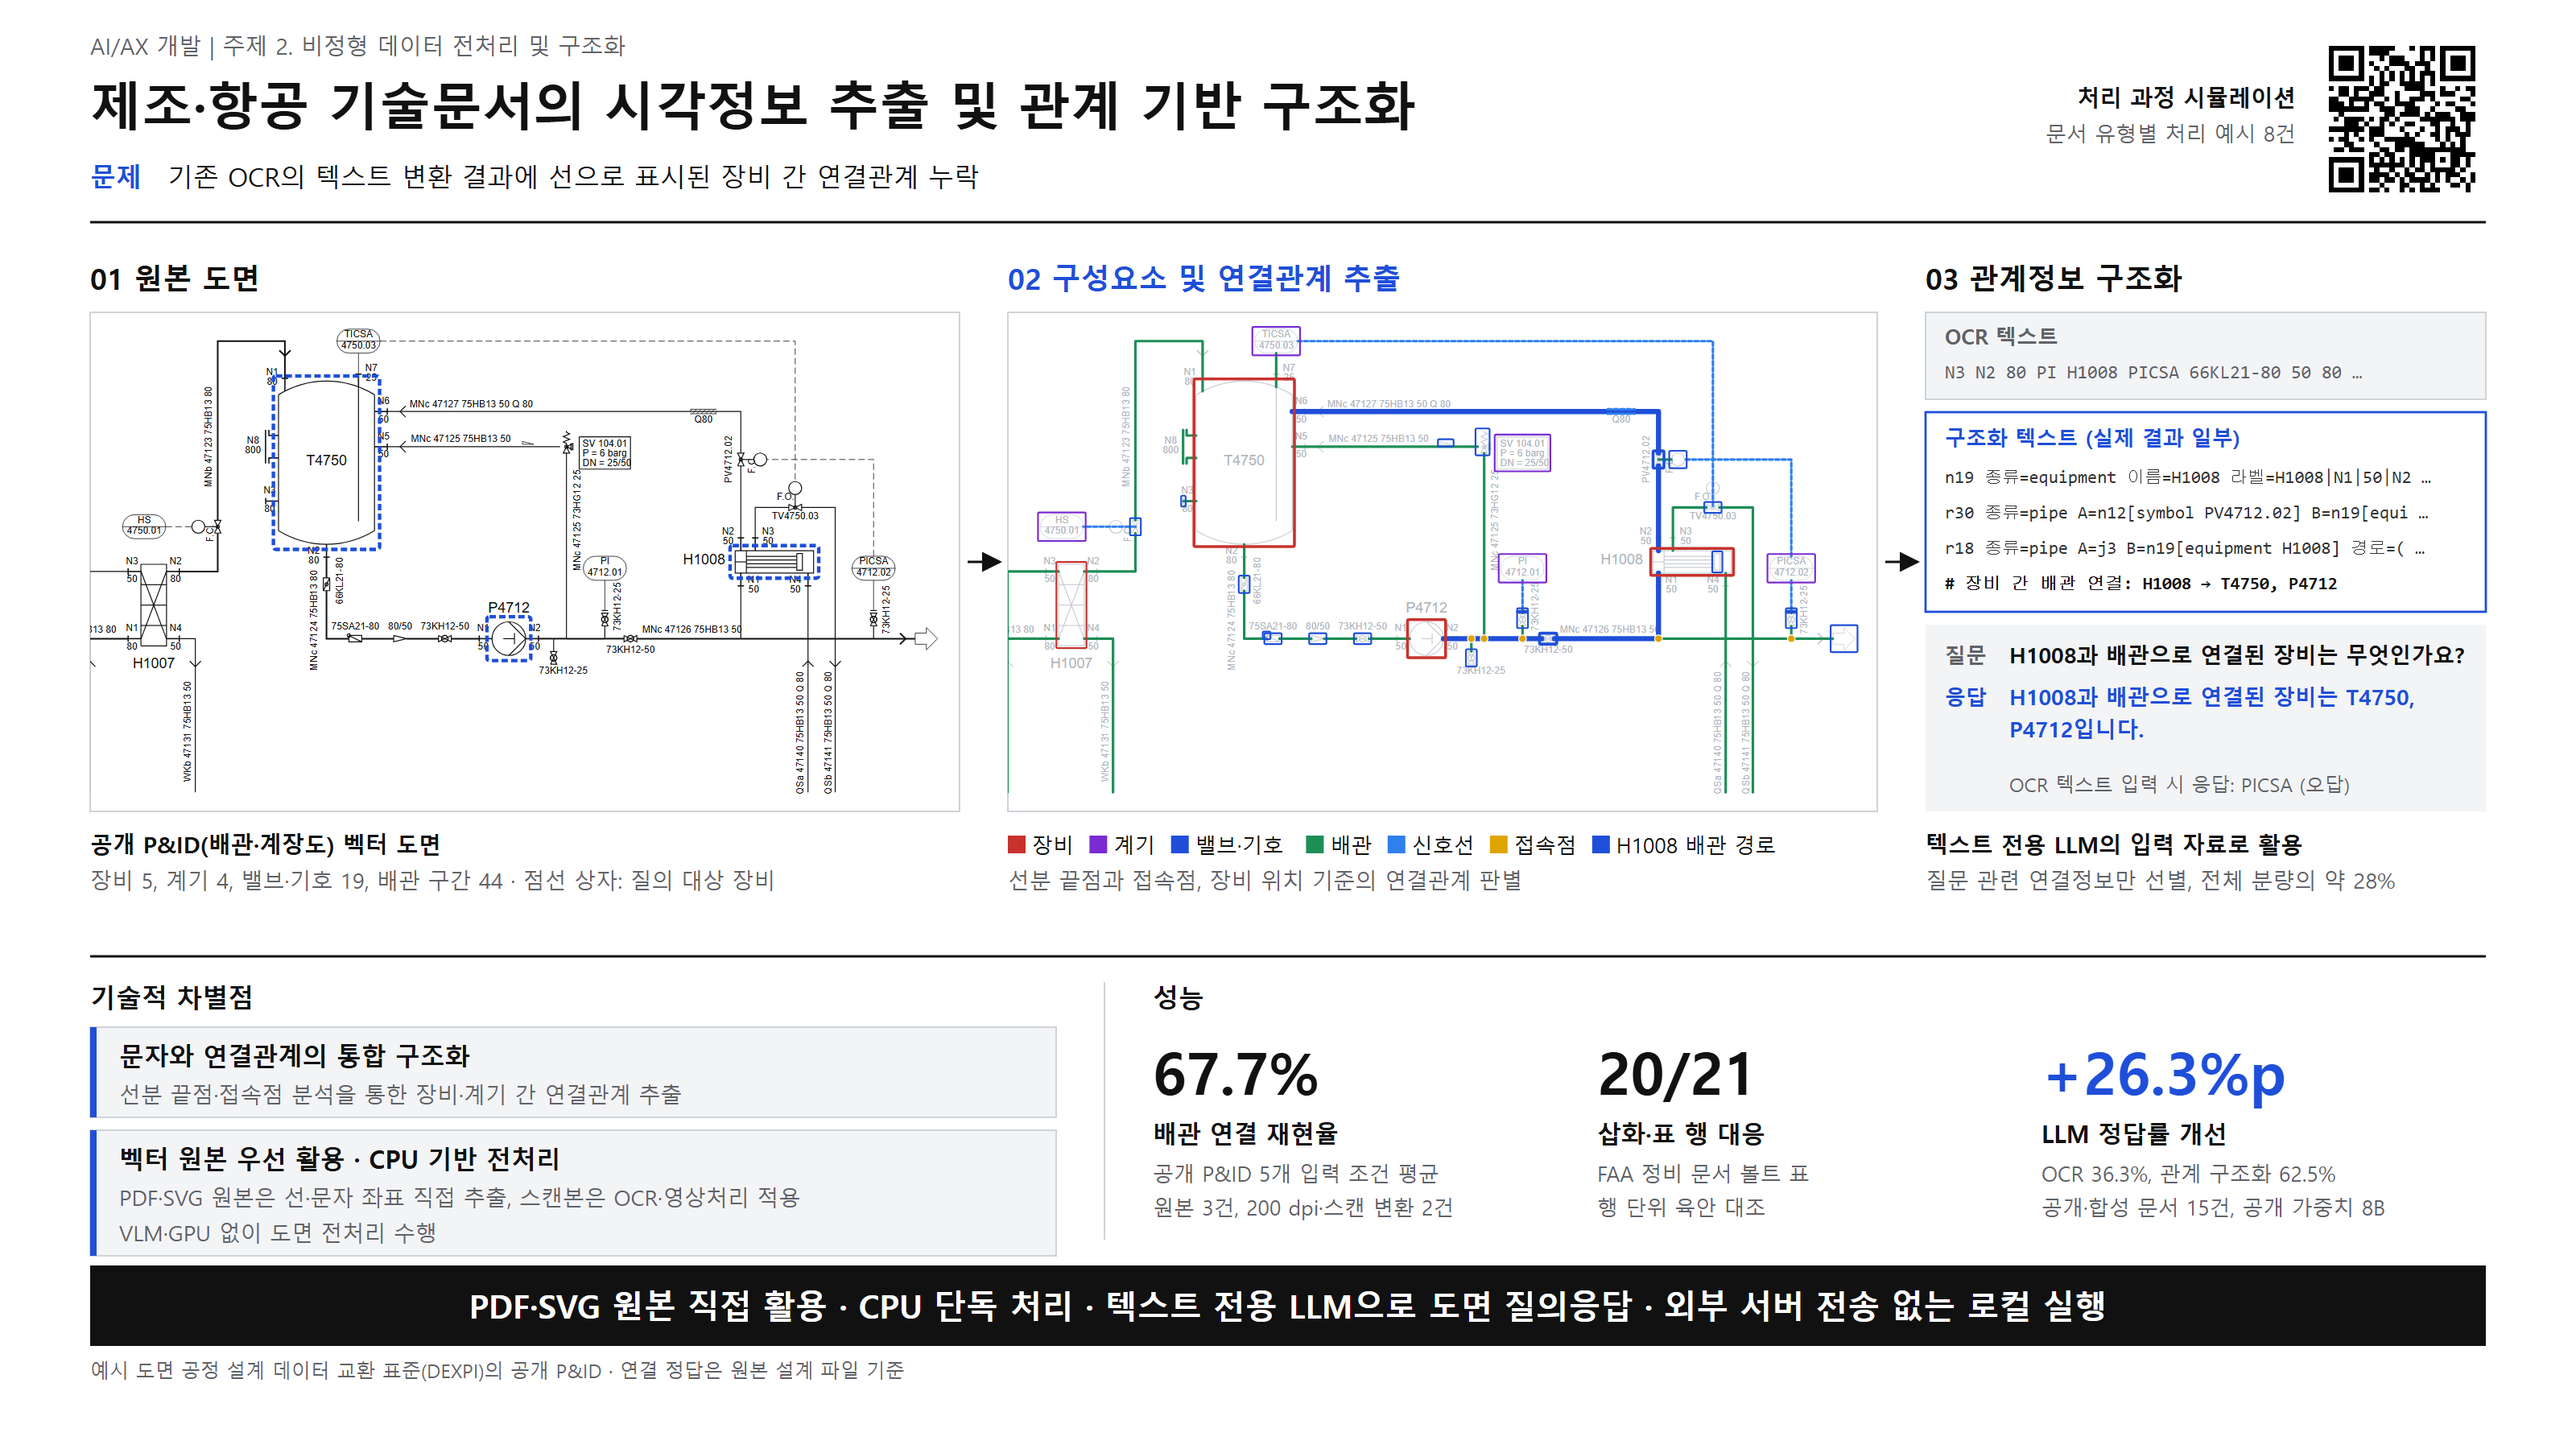
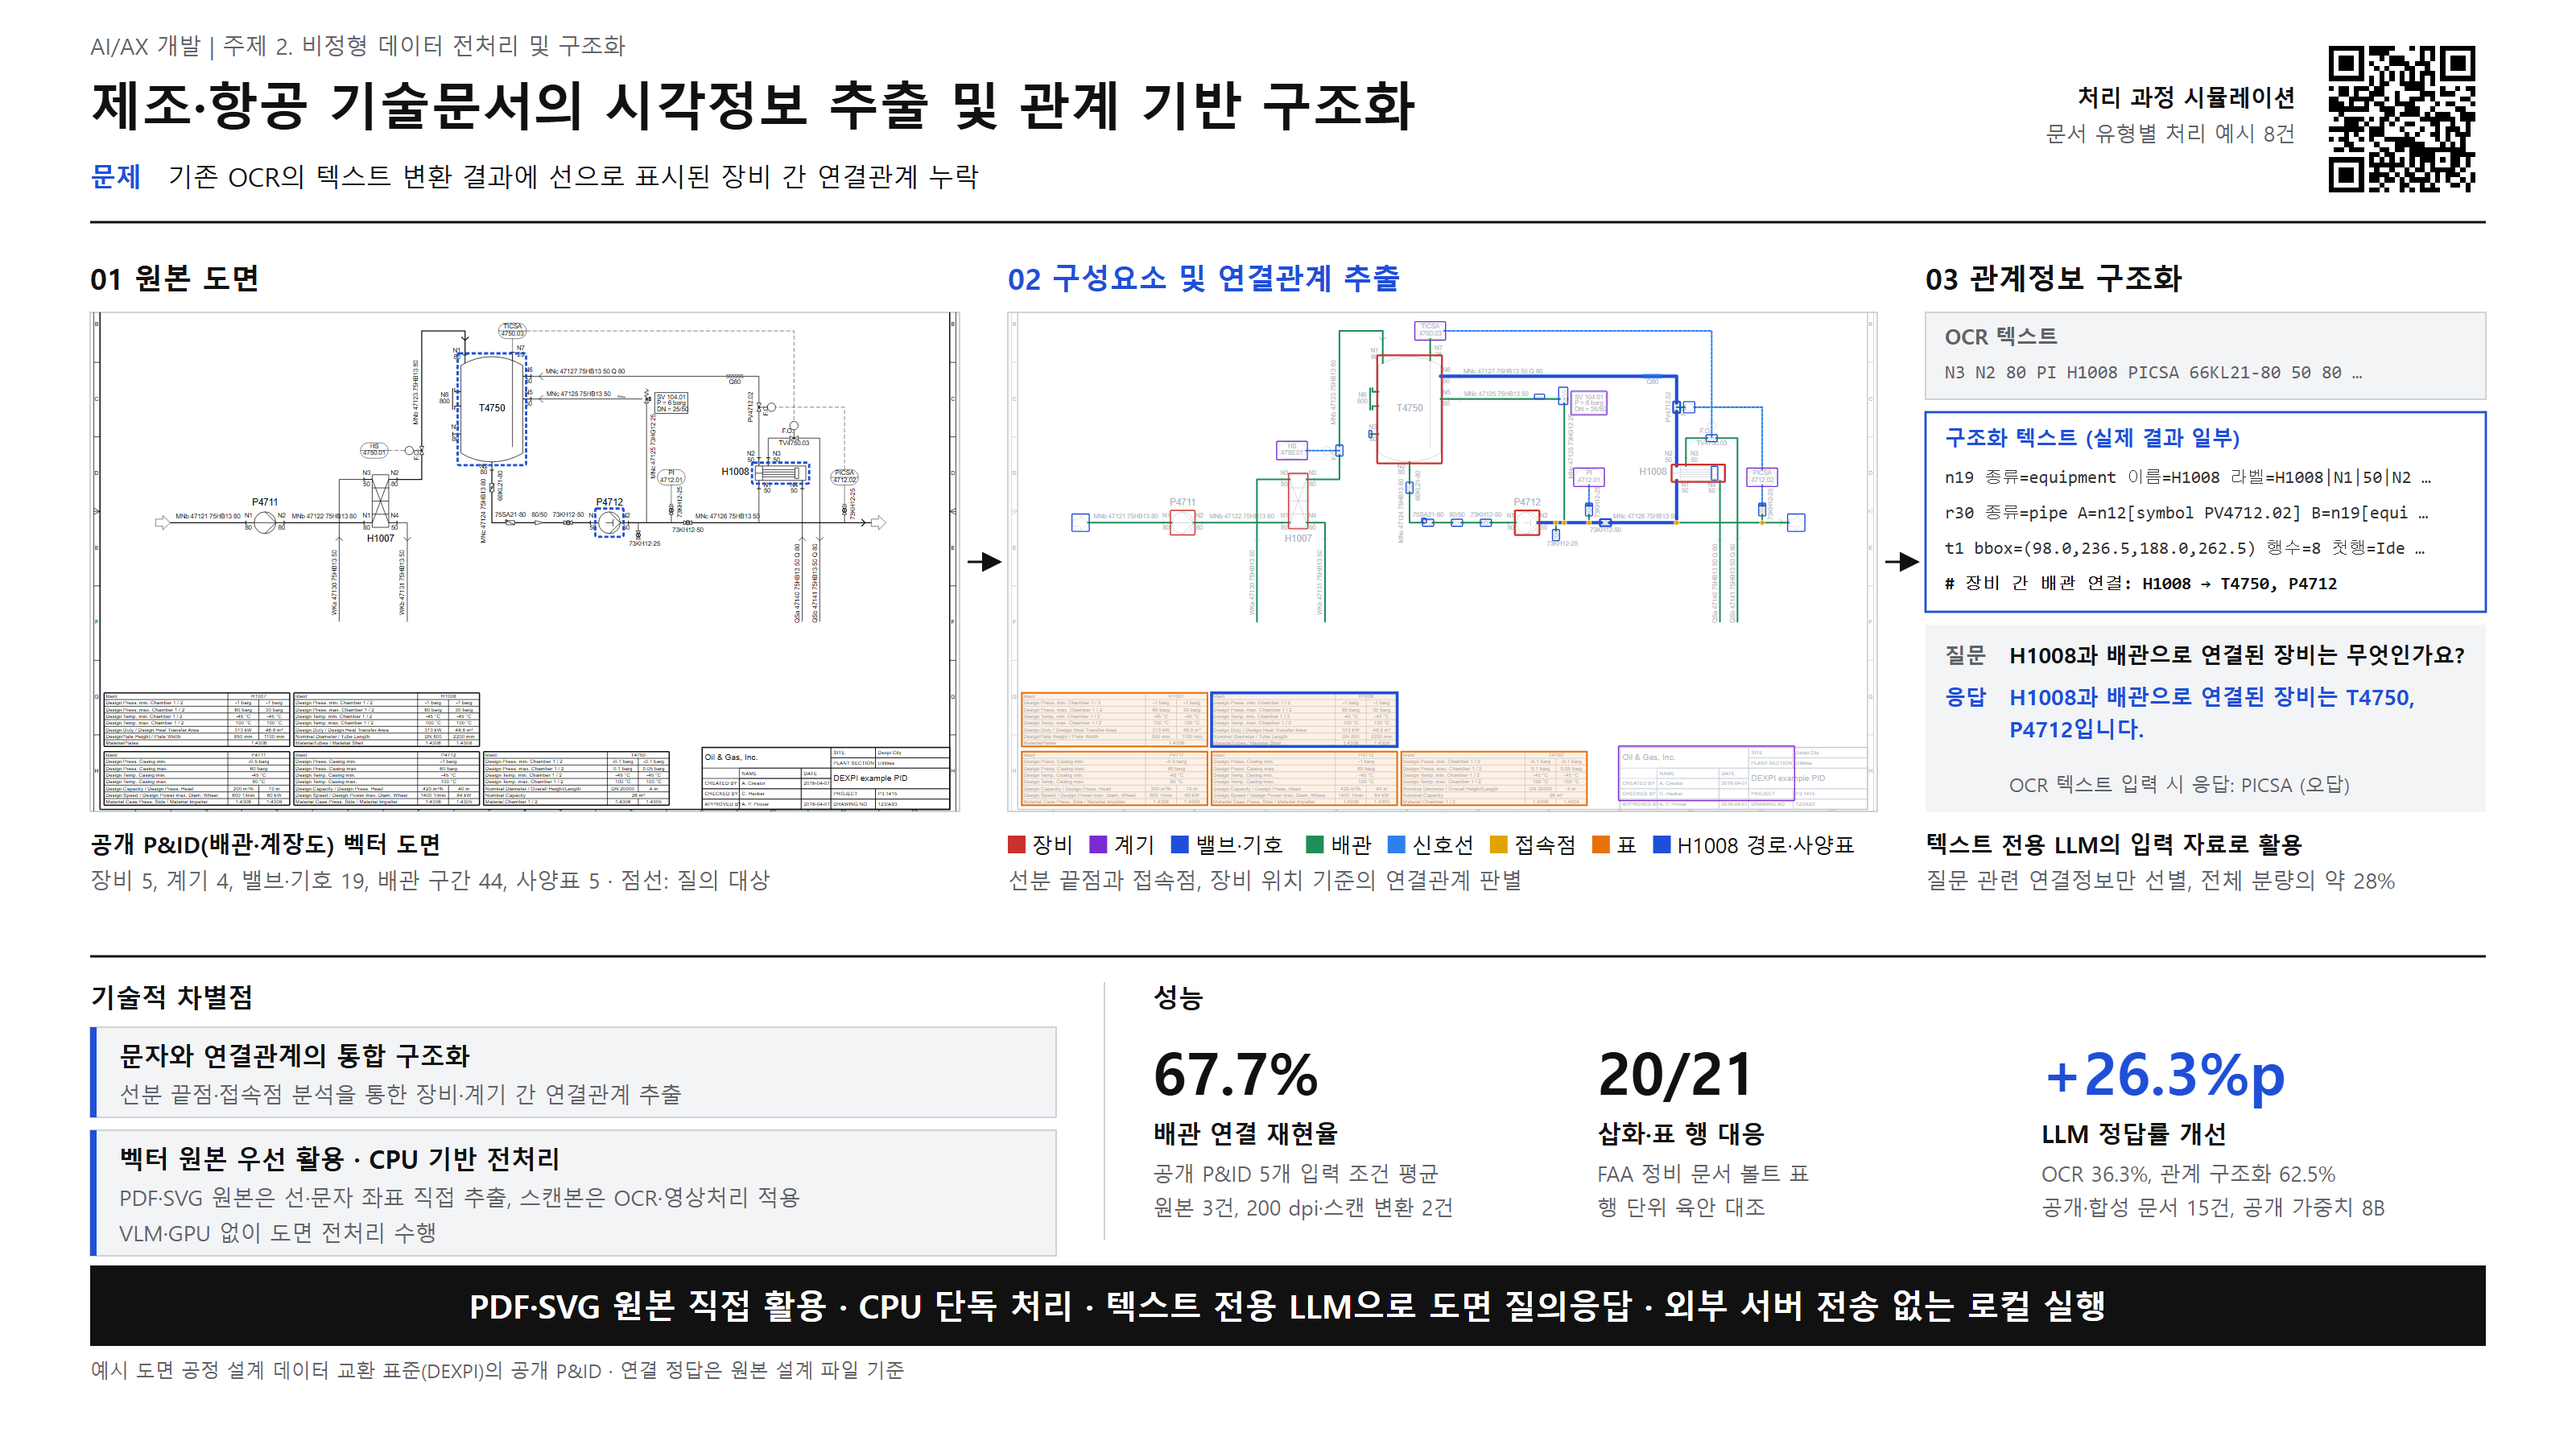
1장 슬라이드: 예시 도면을 사양표 포함 전체 도면으로 확대, 표 추출 결과 표시

Changed region(s): [[0.0312, 0.2178, 0.7188, 0.5911], [0.75, 0.3733, 0.9375, 0.4044], [0.1875, 0.5911, 0.3125, 0.6222]]

diff --git a/docs/figures/1장-도면-관계-구조화.html b/docs/figures/1장-도면-관계-구조화.html
@@ -15,7 +15,7 @@
 <line x1="1171" y1="349.0" x2="1191" y2="349.0" stroke="#111111" stroke-width="1.6" marker-end="url(#ah)"/>
 <text x="1196" y="180" font-size="18" font-weight="700" fill="#111111" text-anchor="start">03  관계정보 구조화</text>
 <rect x="56" y="194" width="540" height="310" rx="0" stroke="#CFD3D9" fill="#FFFFFF" stroke-width="1"/>
-<svg x="56" y="194" width="540" height="310" viewBox="122 52 268 156" preserveAspectRatio="xMidYMid meet"><text x="0" y="1.05" font-size="3" font-family="Arial" fill="#111111" text-anchor="middle" transform="translate(319.5 98) rotate(-90)">PV4712.02</text>
+<svg x="56" y="194" width="540" height="310" viewBox="5.5 52 409 242" preserveAspectRatio="xMidYMid meet"><text x="0" y="1.05" font-size="3" font-family="Arial" fill="#111111" text-anchor="middle" transform="translate(319.5 98) rotate(-90)">PV4712.02</text>
 <ellipse cx="329.575" cy="98" rx="2.025" ry="2.025" fill="none" stroke="#111111" stroke-width="0.3"/>
 <path d="M 327.55 98 L 323.5 98" fill="none" stroke="#111111" stroke-width="0.3"/>
 <text x="0" y="1.05" font-size="3" font-family="Arial" fill="#111111" text-anchor="middle" transform="translate(327 99.5) rotate(-90)">F.C.</text>
@@ -580,7 +580,7 @@
 <path d="M 380 268 L 380 263 L 416 263 L 416 268 L 380 268" fill="none" stroke="#111111" stroke-width="0.28"/>
 <text x="0" y="0" font-size="2.5" font-family="Arial" fill="#111111" text-anchor="start" transform="translate(381.2 266.25) rotate(0)">Dexpi City</text><rect x="320.15" y="124.9" width="27.7" height="10.2" rx=".8" fill="none" stroke="#1F4FD8" stroke-width="1.1" stroke-dasharray="2 1"/><rect x="177.4" y="71.9" width="33.2" height="54.2" rx=".8" fill="none" stroke="#1F4FD8" stroke-width="1.1" stroke-dasharray="2 1"/><rect x="244.15" y="147.15" width="13.7" height="13.7" rx=".8" fill="none" stroke="#1F4FD8" stroke-width="1.1" stroke-dasharray="2 1"/></svg>
 <rect x="626" y="194" width="540" height="310" rx="0" stroke="#CFD3D9" fill="#FFFFFF" stroke-width="1"/>
-<svg x="626" y="194" width="540" height="310" viewBox="122 52 268 156" preserveAspectRatio="xMidYMid meet"><text x="0" y="1.05" font-size="3" font-family="Arial" fill="#B0B5BD" text-anchor="middle" transform="translate(319.5 98) rotate(-90)">PV4712.02</text>
+<svg x="626" y="194" width="540" height="310" viewBox="5.5 52 409 242" preserveAspectRatio="xMidYMid meet"><text x="0" y="1.05" font-size="3" font-family="Arial" fill="#B0B5BD" text-anchor="middle" transform="translate(319.5 98) rotate(-90)">PV4712.02</text>
 <ellipse cx="329.575" cy="98" rx="2.025" ry="2.025" fill="none" stroke="#C9CDD4" stroke-width="0.3"/>
 <path d="M 327.55 98 L 323.5 98" fill="none" stroke="#C9CDD4" stroke-width="0.3"/>
 <text x="0" y="1.05" font-size="3" font-family="Arial" fill="#B0B5BD" text-anchor="middle" transform="translate(327 99.5) rotate(-90)">F.C.</text>
@@ -1219,13 +1219,18 @@
 <rect x="279.3" y="144.5" width="3.4" height="1.4" rx=".4" fill="none" stroke="#1F4FD8" stroke-width="0.55"/>
 <rect x="363.3" y="144.5" width="3.4" height="1.4" rx=".4" fill="none" stroke="#1F4FD8" stroke-width="0.55"/>
 <rect x="174.3" y="109.3" width="1.4" height="3.4" rx=".4" fill="none" stroke="#1F4FD8" stroke-width="0.55"/>
+<rect x="6.0" y="236.5" width="90.0" height="26.0" fill="#E8710A" fill-opacity=".10" stroke="#E8710A" stroke-width="0.8"/>
+<rect x="98.0" y="236.5" width="90.0" height="26.0" fill="#E8710A" fill-opacity=".10" stroke="#1F4FD8" stroke-width="1.4"/>
+<rect x="6.0" y="265.0" width="90.0" height="26.0" fill="#E8710A" fill-opacity=".10" stroke="#E8710A" stroke-width="0.8"/>
+<rect x="98.0" y="265.0" width="90.0" height="26.0" fill="#E8710A" fill-opacity=".10" stroke="#E8710A" stroke-width="0.8"/>
+<rect x="190.0" y="265.0" width="90.0" height="26.0" fill="#E8710A" fill-opacity=".10" stroke="#E8710A" stroke-width="0.8"/>
 <circle cx="269.0" cy="154.0" r="1.2" fill="#E0A400" stroke="#fff" stroke-width=".3"/>
 <circle cx="281.0" cy="154.0" r="1.2" fill="#E0A400" stroke="#fff" stroke-width=".3"/>
 <circle cx="265.0" cy="154.0" r="1.2" fill="#E0A400" stroke="#fff" stroke-width=".3"/>
 <circle cx="323.5" cy="154.0" r="1.2" fill="#E0A400" stroke="#fff" stroke-width=".3"/>
 <circle cx="365.0" cy="154.0" r="1.2" fill="#E0A400" stroke="#fff" stroke-width=".3"/></svg>
 <text x="56" y="530" font-size="14" font-weight="700" fill="#111111" text-anchor="start">공개 P&amp;ID(배관·계장도) 벡터 도면</text>
-<text x="56" y="552" font-size="13.5" font-weight="400" fill="#5F6368" text-anchor="start">장비 5, 계기 4, 밸브·기호 19, 배관 구간 44  ·  점선 상자: 질의 대상 장비</text>
+<text x="56" y="552" font-size="13.5" font-weight="400" fill="#5F6368" text-anchor="start">장비 5, 계기 4, 밸브·기호 19, 배관 구간 44, 사양표 5  ·  점선: 질의 대상</text>
 <rect x="626" y="519" width="11" height="11" fill="#C8322E"/>
 <text x="641" y="530" font-size="13" font-weight="400" fill="#111111" text-anchor="start">장비</text>
 <rect x="676.68" y="519" width="11" height="11" fill="#7A2BD1"/>
@@ -1238,8 +1243,10 @@
 <text x="876.8899999999999" y="530" font-size="13" font-weight="400" fill="#111111" text-anchor="start">신호선</text>
 <rect x="925.4099999999999" y="519" width="11" height="11" fill="#E0A400"/>
 <text x="940.4099999999999" y="530" font-size="13" font-weight="400" fill="#111111" text-anchor="start">접속점</text>
-<rect x="988.9299999999998" y="519" width="11" height="11" fill="#1F4FD8"/>
-<text x="1003.9299999999998" y="530" font-size="13" font-weight="400" fill="#111111" text-anchor="start">H1008 배관 경로</text>
+<rect x="988.9299999999998" y="519" width="11" height="11" fill="#E8710A"/>
+<text x="1003.9299999999998" y="530" font-size="13" font-weight="400" fill="#111111" text-anchor="start">표</text>
+<rect x="1026.7699999999998" y="519" width="11" height="11" fill="#1F4FD8"/>
+<text x="1041.7699999999998" y="530" font-size="13" font-weight="400" fill="#111111" text-anchor="start">H1008 경로·사양표</text>
 <text x="626" y="552" font-size="13.5" font-weight="400" fill="#5F6368" text-anchor="start">선분 끝점과 접속점, 장비 위치 기준의 연결관계 판별</text>
 <rect x="1196" y="194" width="348" height="54" rx="0" stroke="#CFD3D9" fill="#F3F4F6" stroke-width="1"/>
 <text x="1208" y="214" font-size="13" font-weight="700" fill="#5F6368" text-anchor="start">OCR 텍스트</text>
@@ -1248,7 +1255,7 @@
 <text x="1208" y="277" font-size="13" font-weight="700" fill="#1F4FD8" text-anchor="start">구조화 텍스트 (실제 결과 일부)</text>
 <text x="1208" y="300" font-size="11" font-weight="400" fill="#333333" text-anchor="start" font-family="Consolas, 'Noto Sans KR', monospace">n19 종류=equipment 이름=H1008 라벨=H1008|N1|50|N2 …</text>
 <text x="1208" y="322" font-size="11" font-weight="400" fill="#333333" text-anchor="start" font-family="Consolas, 'Noto Sans KR', monospace">r30 종류=pipe A=n12[symbol PV4712.02] B=n19[equi …</text>
-<text x="1208" y="344" font-size="11" font-weight="400" fill="#333333" text-anchor="start" font-family="Consolas, 'Noto Sans KR', monospace">r18 종류=pipe A=j3 B=n19[equipment H1008] 경로=( …</text>
+<text x="1208" y="344" font-size="11" font-weight="400" fill="#333333" text-anchor="start" font-family="Consolas, 'Noto Sans KR', monospace">t1 bbox=(98.0,236.5,188.0,262.5) 행수=8 첫행=Ide …</text>
 <text x="1208" y="366" font-size="11" font-weight="700" fill="#111111" text-anchor="start" font-family="Consolas, 'Noto Sans KR', monospace"># 장비 간 배관 연결: H1008 → T4750, P4712</text>
 <rect x="1196" y="388" width="348" height="116" rx="0" stroke="none" fill="#F3F4F6" stroke-width="1"/>
 <text x="1208" y="412" font-size="13" font-weight="700" fill="#5F6368" text-anchor="start">질문</text>

diff --git a/docs/figures/make_slide.py b/docs/figures/make_slide.py
@@ -14,7 +14,7 @@ CTX = json.load(open(os.path.join(ROOT, 'examples/llm-qa/contexts.json'), encodi
 
 W, H = 1600, 900
 ACC = "#1F4FD8"; INK = "#111111"; GR = "#5F6368"; LINE = "#CFD3D9"; FILL = "#F3F4F6"
-EQ, SYM, INS, PIPE, SIG, JCT = "#C8322E", "#1F4FD8", "#7A2BD1", "#1E8E57", "#2F80ED", "#E0A400"
+EQ, SYM, INS, PIPE, SIG, JCT, TBL = "#C8322E", "#1F4FD8", "#7A2BD1", "#1E8E57", "#2F80ED", "#E0A400", "#E8710A"
 FONT = "'Noto Sans KR', 'Malgun Gothic', sans-serif"; MONO = "Consolas, 'Noto Sans KR', monospace"
 FD = "C:/Windows/Fonts/"
 _f = {}
@@ -90,11 +90,14 @@ def overlay():
         if n['role'] not in ROLE_C: continue
         x0, y0, x1, y1 = n['bbox']
         b.append(f'<rect x="{x0-.7}" y="{y0-.7}" width="{x1-x0+1.4}" height="{y1-y0+1.4}" rx=".4" fill="none" stroke="{ROLE_C[n["role"]]}" stroke-width="{0.9 if n["id"] in hl_nodes else 0.55}"/>')
+    for tb in G['tables']:
+        x0, y0, x1, y1 = tb['bbox']; on = 'H1008' in tb['rows'][0]
+        b.append(f'<rect x="{x0}" y="{y0}" width="{x1-x0}" height="{y1-y0}" fill="{TBL}" fill-opacity=".10" stroke="{ACC if on else TBL}" stroke-width="{1.4 if on else 0.8}"/>')
     for j in juncs:
         b.append(f'<circle cx="{j["pt"][0]}" cy="{j["pt"][1]}" r="1.2" fill="{JCT}" stroke="#fff" stroke-width=".3"/>')
     return '\n'.join(b)
 
-VB = (122, 52, 268, 156)
+VB = (5.5, 52, 409, 242)
 def crop(x, y, w, h, body, fill="#FFFFFF"):
     rect(x, y, w, h, LINE, fill)
     out.append(f'<svg x="{x}" y="{y}" width="{w}" height="{h}" viewBox="{VB[0]} {VB[1]} {VB[2]} {VB[3]}" preserveAspectRatio="xMidYMid meet">{body}</svg>')
@@ -130,8 +133,8 @@ crop2(PX[0], TOP, PWS[0], IH, drawing(INK, INK) + EQ_HL)
 crop2(PX[1], TOP, PWS[1], IH, drawing("#C9CDD4", "#B0B5BD") + overlay())
 CAP = TOP + IH + 26
 t(PX[0], CAP, "공개 P&ID(배관·계장도) 벡터 도면", 14, True, maxw=PWS[0])
-t(PX[0], CAP + 22, "장비 5, 계기 4, 밸브·기호 19, 배관 구간 44  ·  점선 상자: 질의 대상 장비", 13.5, False, GR, maxw=PWS[0])
-leg = [(EQ, "장비"), (INS, "계기"), (SYM, "밸브·기호"), (PIPE, "배관"), (SIG, "신호선"), (JCT, "접속점"), (ACC, "H1008 배관 경로")]
+t(PX[0], CAP + 22, "장비 5, 계기 4, 밸브·기호 19, 배관 구간 44, 사양표 5  ·  점선: 질의 대상", 13.5, False, GR, maxw=PWS[0])
+leg = [(EQ, "장비"), (INS, "계기"), (SYM, "밸브·기호"), (PIPE, "배관"), (SIG, "신호선"), (JCT, "접속점"), (TBL, "표"), (ACC, "H1008 경로·사양표")]
 xx = PX[1]
 for c, nm_ in leg:
     out.append(f'<rect x="{xx}" y="{CAP-11}" width="11" height="11" fill="{c}"/>'); t(xx + 15, CAP, nm_, 13); xx += 15 + width(nm_, 13) * 1.07 + 10
@@ -151,7 +154,7 @@ y3 = TOP + 62; GH = 124
 rect(x3, y3, w3, GH, ACC, "#FFFFFF", 1.4)
 t(x3 + 12, y3 + 21, "구조화 텍스트 (실제 결과 일부)", 13, True, ACC)
 rl = CTX['retrieved'].splitlines()
-pick = [next(l for l in rl if l.startswith(p)) for p in ("n19 종류=equipment", "r30 종류=pipe", "r18 종류=pipe", "# 장비 간 배관 연결")]
+pick = [next(l for l in rl if l.startswith(p)) for p in ("n19 종류=equipment", "r30 종류=pipe", "t1 bbox=", "# 장비 간 배관 연결")]
 for k, ln in enumerate(pick):
     t(x3 + 12, y3 + 44 + k * 22, fit(ln, 11, w3 - 24), 11, k == 3, INK if k == 3 else "#333333", mono=True)
 NQ = json.load(open(os.path.join(ROOT, 'examples/llm-qa/results/slide-natural-question.json'), encoding='utf-8'))
